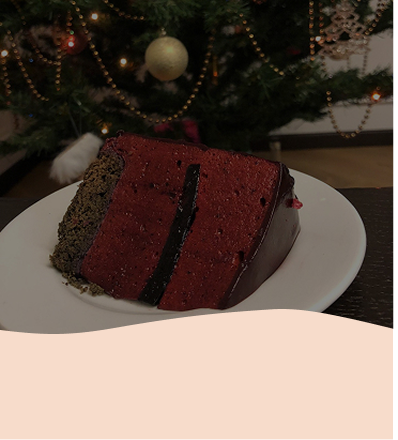
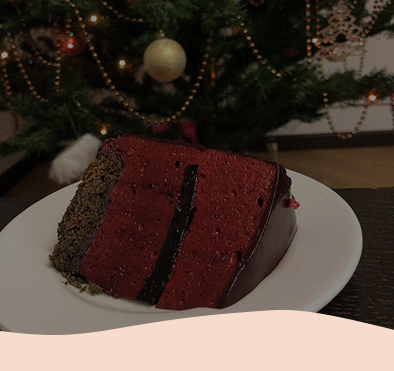
исправлены шрифты и фото некоторых баннеров

diff --git a/vegan.html b/vegan.html
@@ -8,6 +8,7 @@
   <link rel="stylesheet" href="anich_cakes/css/variables.css">
   <link rel="stylesheet" href="anich_cakes/css/low_calories.css">
   <link rel="stylesheet" href="anich_cakes/css/vegan.css">
+  <link rel="stylesheet" href="anich_cakes/css/style.css">
 </head>
 
 <body class="low-calories">
@@ -25,27 +26,27 @@
     </ul>
   </nav>
 
- <!-- Banner -->
-  <section class="low-calories__banner" aria-label="Hero image">
-    <div class="low-calories__banner-image">
-      <img class="low-calories__banner-img" src="anich_cakes/img/vegan/vegan__banner-img.jpg" alt="Raw desserts">
-    </div>
-    <header class="low-calories__banner-header">
-      <div class="low-calories__banner-left">
-        <a href="#" class="low-calories__banner-burger" id="burgerBtn">
-          <img class="low-calories__banner-logo" src="anich_cakes/img/burger.svg" alt="menu">
-        </a>
-        <nav class="low-calories__breadcrumbs" aria-label="Breadcrumb">
+  <section class="banner" aria-label="Hero image">
+      <div class="banner__image">
+        <img class="banner__img" src="anich_cakes/img/vegan/vegan__banner.jpg" alt="Berry dessert background">
+      </div>
+      <header class="banner__header">
+        <div class="banner__header-left">
+          <a href="#" class="banner__burger" id="burgerBtn">
+            <img class="banner__logo" src="anich_cakes/img/burger.svg" alt="menu">
+          </a>
+                  <nav class="low-calories__breadcrumbs" aria-label="Breadcrumb">
           <a href="index.html">Главная</a>
           <span class="low-calories__breadcrumbs-sep">/</span>
           <span>Веганские</span>
         </nav>
-      </div>
-      <a href="index.html">
-        <h1 class="low-calories__banner-title">Anich Cakes</h1>
-      </a>
-    </header>
-  </section>
+        </div>
+        <a href="index.html">
+          <h1 class="banner__title">Anich Cakes</h1>
+        </a>
+      </header>
+    </section>
+
 
   <section class="low-calories__intro">
     <div class="low-calories__intro-inner">
@@ -94,9 +95,12 @@
       <div class="low-calories__carousel" data-current="0">
         <div class="low-calories__carousel-track">
           <div class="low-calories__carousel-slide"><img src="anich_cakes/img/vegan/vegan-3-1.jpg" alt="Десерт 3-1"></div>
+          <div class="low-calories__carousel-slide"><img src="anich_cakes/img/vegan/vegan-3-2.jpg" alt="Десерт 3-2"></div>
+          <div class="low-calories__carousel-slide"><img src="anich_cakes/img/vegan/vegan-3-3.jpg" alt="Десерт 3-3"></div>
+
         </div>
-        <button class="low-calories__carousel-btn low-calories__carousel-btn--prev" type="button" style="display:none;">‹</button>
-        <button class="low-calories__carousel-btn low-calories__carousel-btn--next" type="button" style="display:none;">›</button>
+        <button class="low-calories__carousel-btn low-calories__carousel-btn--prev" type="button">‹</button>
+        <button class="low-calories__carousel-btn low-calories__carousel-btn--next" type="button">›</button>
         <div class="low-calories__carousel-dots"></div>
       </div>
       <div class="low-calories__card-body">

diff --git a/low_calories.html b/low_calories.html
@@ -7,31 +7,31 @@
   <title>Низкокалорийные десерты — Anich Cakes</title>
   <link rel="stylesheet" href="anich_cakes/css/variables.css">
   <link rel="stylesheet" href="anich_cakes/css/low_calories.css">
+  <link rel="stylesheet" href="anich_cakes/css/style.css">
 </head>
 
 <body class="low-calories">
 
-  <!-- Banner -->
-  <section class="low-calories__banner" aria-label="Hero image">
-    <div class="low-calories__banner-image">
-      <img class="low-calories__banner-img" src="anich_cakes/img/low_calories/low-calories__banner-img.png" alt="Raw desserts">
-    </div>
-    <header class="low-calories__banner-header">
-      <div class="low-calories__banner-left">
-        <a href="#" class="low-calories__banner-burger" id="burgerBtn">
-          <img class="low-calories__banner-logo" src="anich_cakes/img/burger.svg" alt="menu">
-        </a>
-        <nav class="low-calories__breadcrumbs" aria-label="Breadcrumb">
+  <section class="banner" aria-label="Hero image">
+      <div class="banner__image">
+        <img class="banner__img" src="anich_cakes/img/low_calories/low-calories__banner-img.png" alt="Berry dessert background">
+      </div>
+      <header class="banner__header">
+        <div class="banner__header-left">
+          <a href="#" class="banner__burger" id="burgerBtn">
+            <img class="banner__logo" src="anich_cakes/img/burger.svg" alt="menu">
+          </a>
+                  <nav class="low-calories__breadcrumbs" aria-label="Breadcrumb">
           <a href="index.html">Главная</a>
           <span class="low-calories__breadcrumbs-sep">/</span>
           <span>Низкокалорийные</span>
         </nav>
-      </div>
-      <a href="index.html">
-        <h1 class="low-calories__banner-title">Anich Cakes</h1>
-      </a>
-    </header>
-  </section>
+        </div>
+        <a href="index.html">
+          <h1 class="banner__title">Anich Cakes</h1>
+        </a>
+      </header>
+    </section>
 
   <!-- Burger Menu -->
   <div class="low-calories__menu-overlay" id="menuOverlay"></div>

diff --git a/raw.html b/raw.html
@@ -6,30 +6,30 @@
   <title>Raw десерты — Anich Cakes</title>
   <link rel="stylesheet" href="anich_cakes/css/variables.css">
   <link rel="stylesheet" href="anich_cakes/css/low_calories.css">
+  <link rel="stylesheet" href="anich_cakes/css/style.css">
 </head>
 <body class="low-calories">
 
-  <!-- Banner -->
-  <section class="low-calories__banner" aria-label="Hero image">
-    <div class="low-calories__banner-image">
-      <img class="low-calories__banner-img" src="anich_cakes/img/raw/raw__banner-img.png" alt="Raw desserts">
-    </div>
-    <header class="low-calories__banner-header">
-      <div class="low-calories__banner-left">
-        <a href="#" class="low-calories__banner-burger" id="burgerBtn">
-          <img class="low-calories__banner-logo" src="anich_cakes/img/burger.svg" alt="menu">
-        </a>
-        <nav class="low-calories__breadcrumbs" aria-label="Breadcrumb">
+ <section class="banner" aria-label="Hero image">
+      <div class="banner__image">
+        <img class="banner__img" src="anich_cakes/img/raw/raw__banner-img.jpg" alt="Berry dessert background">
+      </div>
+      <header class="banner__header">
+        <div class="banner__header-left">
+          <a href="#" class="banner__burger" id="burgerBtn">
+            <img class="banner__logo" src="anich_cakes/img/burger.svg" alt="menu">
+          </a>
+                  <nav class="low-calories__breadcrumbs" aria-label="Breadcrumb">
           <a href="index.html">Главная</a>
           <span class="low-calories__breadcrumbs-sep">/</span>
-          <span>Живые</span>
+          <span>Низкокалорийные</span>
         </nav>
-      </div>
-      <a href="index.html">
-        <h1 class="low-calories__banner-title">Anich Cakes</h1>
-      </a>
-    </header>
-  </section>
+        </div>
+        <a href="index.html">
+          <h1 class="banner__title">Anich Cakes</h1>
+        </a>
+      </header>
+    </section>
 
   <!-- Burger Menu -->
   <div class="low-calories__menu-overlay" id="menuOverlay"></div>

diff --git a/anich_cakes/css/variables.css b/anich_cakes/css/variables.css
@@ -37,7 +37,7 @@
 
   /* --- Отступы и размеры --- */
   --gap-card: 16px;
-  --width-card-btn: 57px;
+  --width-card-btn: 90px;
   --radius-card: 15px;
   --padding-card-body-top: 35px;
 }
@@ -45,13 +45,13 @@
 /* ===== Планшеты (391px — 719px) ===== */
 @media (min-width: 391px) and (max-width: 719px) {
   :root {
-    --font-size-card-title: 15px;
-    --font-size-card-desc: 15px;
-    --font-size-card-btn: 15px;
+    --font-size-card-title: 11px;
+    --font-size-card-desc: 11px;
+    --font-size-card-btn: 12px;
 
-    --font-size-category-card-name: 16px;
-    --font-size-category-card-calories: 16px;
-    --font-size-category-card-desc: 16px;
+    --font-size-category-card-name: 23px;
+    --font-size-category-card-calories: 23px;
+    --font-size-category-card-desc: 23px;
 
     --gap-card: clamp(16px, 3vw, 24px);
     --width-card-btn: clamp(80px, 18vw, 120px);
@@ -63,13 +63,13 @@
 /* ===== Десктоп (>= 720px) ===== */
 @media (min-width: 720px) {
   :root {
-    --font-size-card-title: 20px;
-    --font-size-card-desc: 16px;
-    --font-size-card-btn: 16px;
+    --font-size-card-title: 14px;
+    --font-size-card-desc: 12px;
+    --font-size-card-btn: 12px;
 
-    --font-size-category-card-name: 16px;
-    --font-size-category-card-calories: 16px;
-    --font-size-category-card-desc: 16px;
+    --font-size-category-card-name: 26px;
+    --font-size-category-card-calories: 24px;
+    --font-size-category-card-desc: 24px;
 
     --gap-card: clamp(24px, 2.5vw, 32px);
     --width-card-btn: clamp(120px, 14vw, 168px);
@@ -77,3 +77,16 @@
     --padding-card-body-top: clamp(60px, 8vw, 103px);
   }
 }
+
+@media (max-width: 393px) {
+  :root {
+    --font-size-card-title: 16px;
+    --font-size-card-desc: 16px;
+    --font-size-card-btn: 16px;
+
+    --font-size-category-card-name: 20px;
+    --font-size-category-card-calories: 16px;
+    --font-size-category-card-desc: 16px;
+  }
+}
+

diff --git a/anich_cakes/css/low_calories.css b/anich_cakes/css/low_calories.css
@@ -193,15 +193,15 @@
 .low-calories__intro-title {
   font-size: 32px;
   line-height: 1.1;
-  color: #000000;
+  color: #3A1409;
   margin-bottom: 16px;
   font-weight: 600;
   font-family: 'Gilroy', 'Montserrat', Arial, sans-serif;
 }
 
 .low-calories__intro-text {
-  font-size: 18px;
-  color: #000000;
+  font-size: var(--font-size-category-card-desc);
+  color: #3A1409;
   font-weight: 400;
   font-family: 'Gilroy', 'Montserrat', Arial, sans-serif;
 }
@@ -339,7 +339,7 @@
 .low-calories__card-name {
   font-size: var(--font-size-category-card-name);
   font-weight: 600;
-  color: #000000;
+  color: #3A1409;
   font-family: 'Gilroy', 'Montserrat', Arial, sans-serif;
   display: flex;
   flex-direction: column;
@@ -351,14 +351,14 @@
 .low-calories__card-calories {
   font-size: var(--font-size-category-card-calories);
   font-weight: 400;
-  color: #000000;
+  color: #3A1409;
   font-family: 'Gilroy', 'Montserrat', Arial, sans-serif;
 }
 
 .low-calories__card-description {
   font-size: var(--font-size-category-card-desc);
   font-weight: 400;
-  color: #000000;
+  color: #3A1409;
   font-family: 'Gilroy', 'Montserrat', Arial, sans-serif;
   line-height: 1.3;
 }
@@ -372,6 +372,6 @@
 
 .low-calories__footer-copyright {
   font-size: 14px;
-  color: #000000;
+  color: #3A1409;
   font-family: 'Gilroy', 'Montserrat', Arial, sans-serif;
 }

diff --git a/anich_cakes/css/vegan.css b/anich_cakes/css/vegan.css
@@ -20,7 +20,6 @@
 .low-calories__card {
   background-color: #FFFFFF;
   border-radius: 20px;
-  padding: 15px;
   box-sizing: border-box;
   display: flex;
   flex-direction: column;
@@ -57,7 +56,7 @@
   width: 100%;
   height: 100%;
   object-fit: cover;
-  border-radius: 20px;
+  border-radius: 20px 20px 0 0;
   display: block;
 }
 
